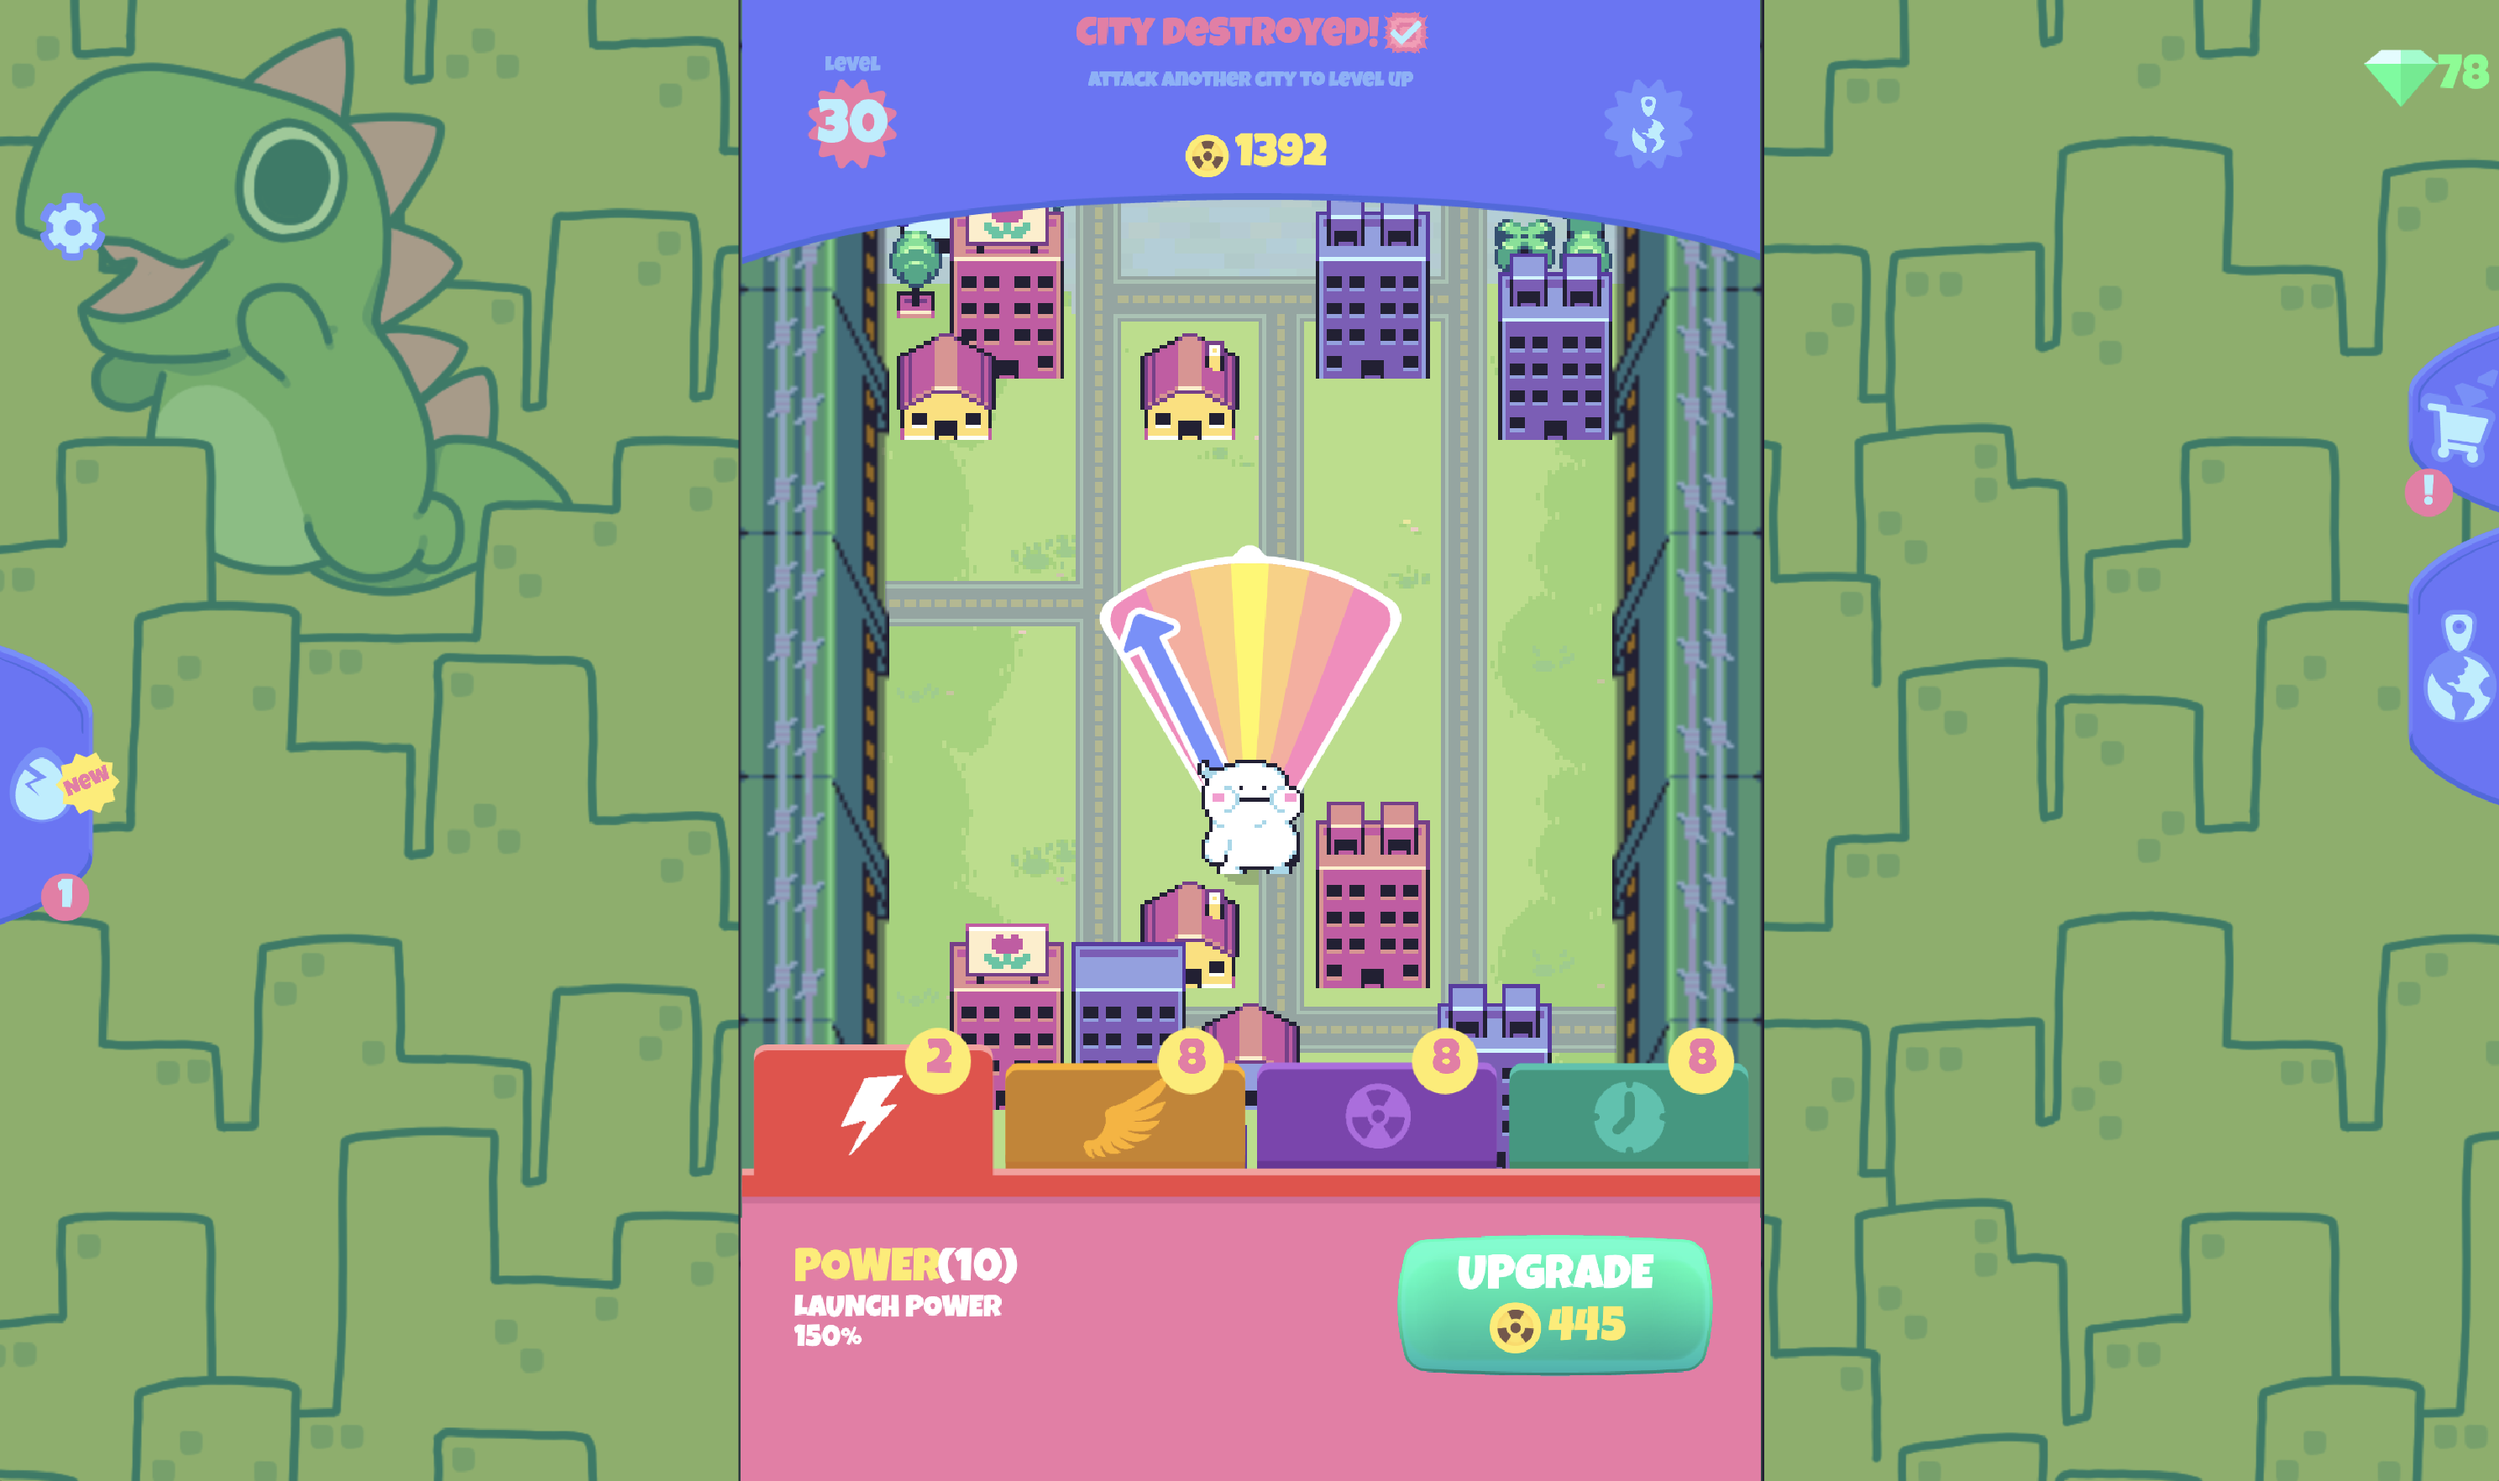
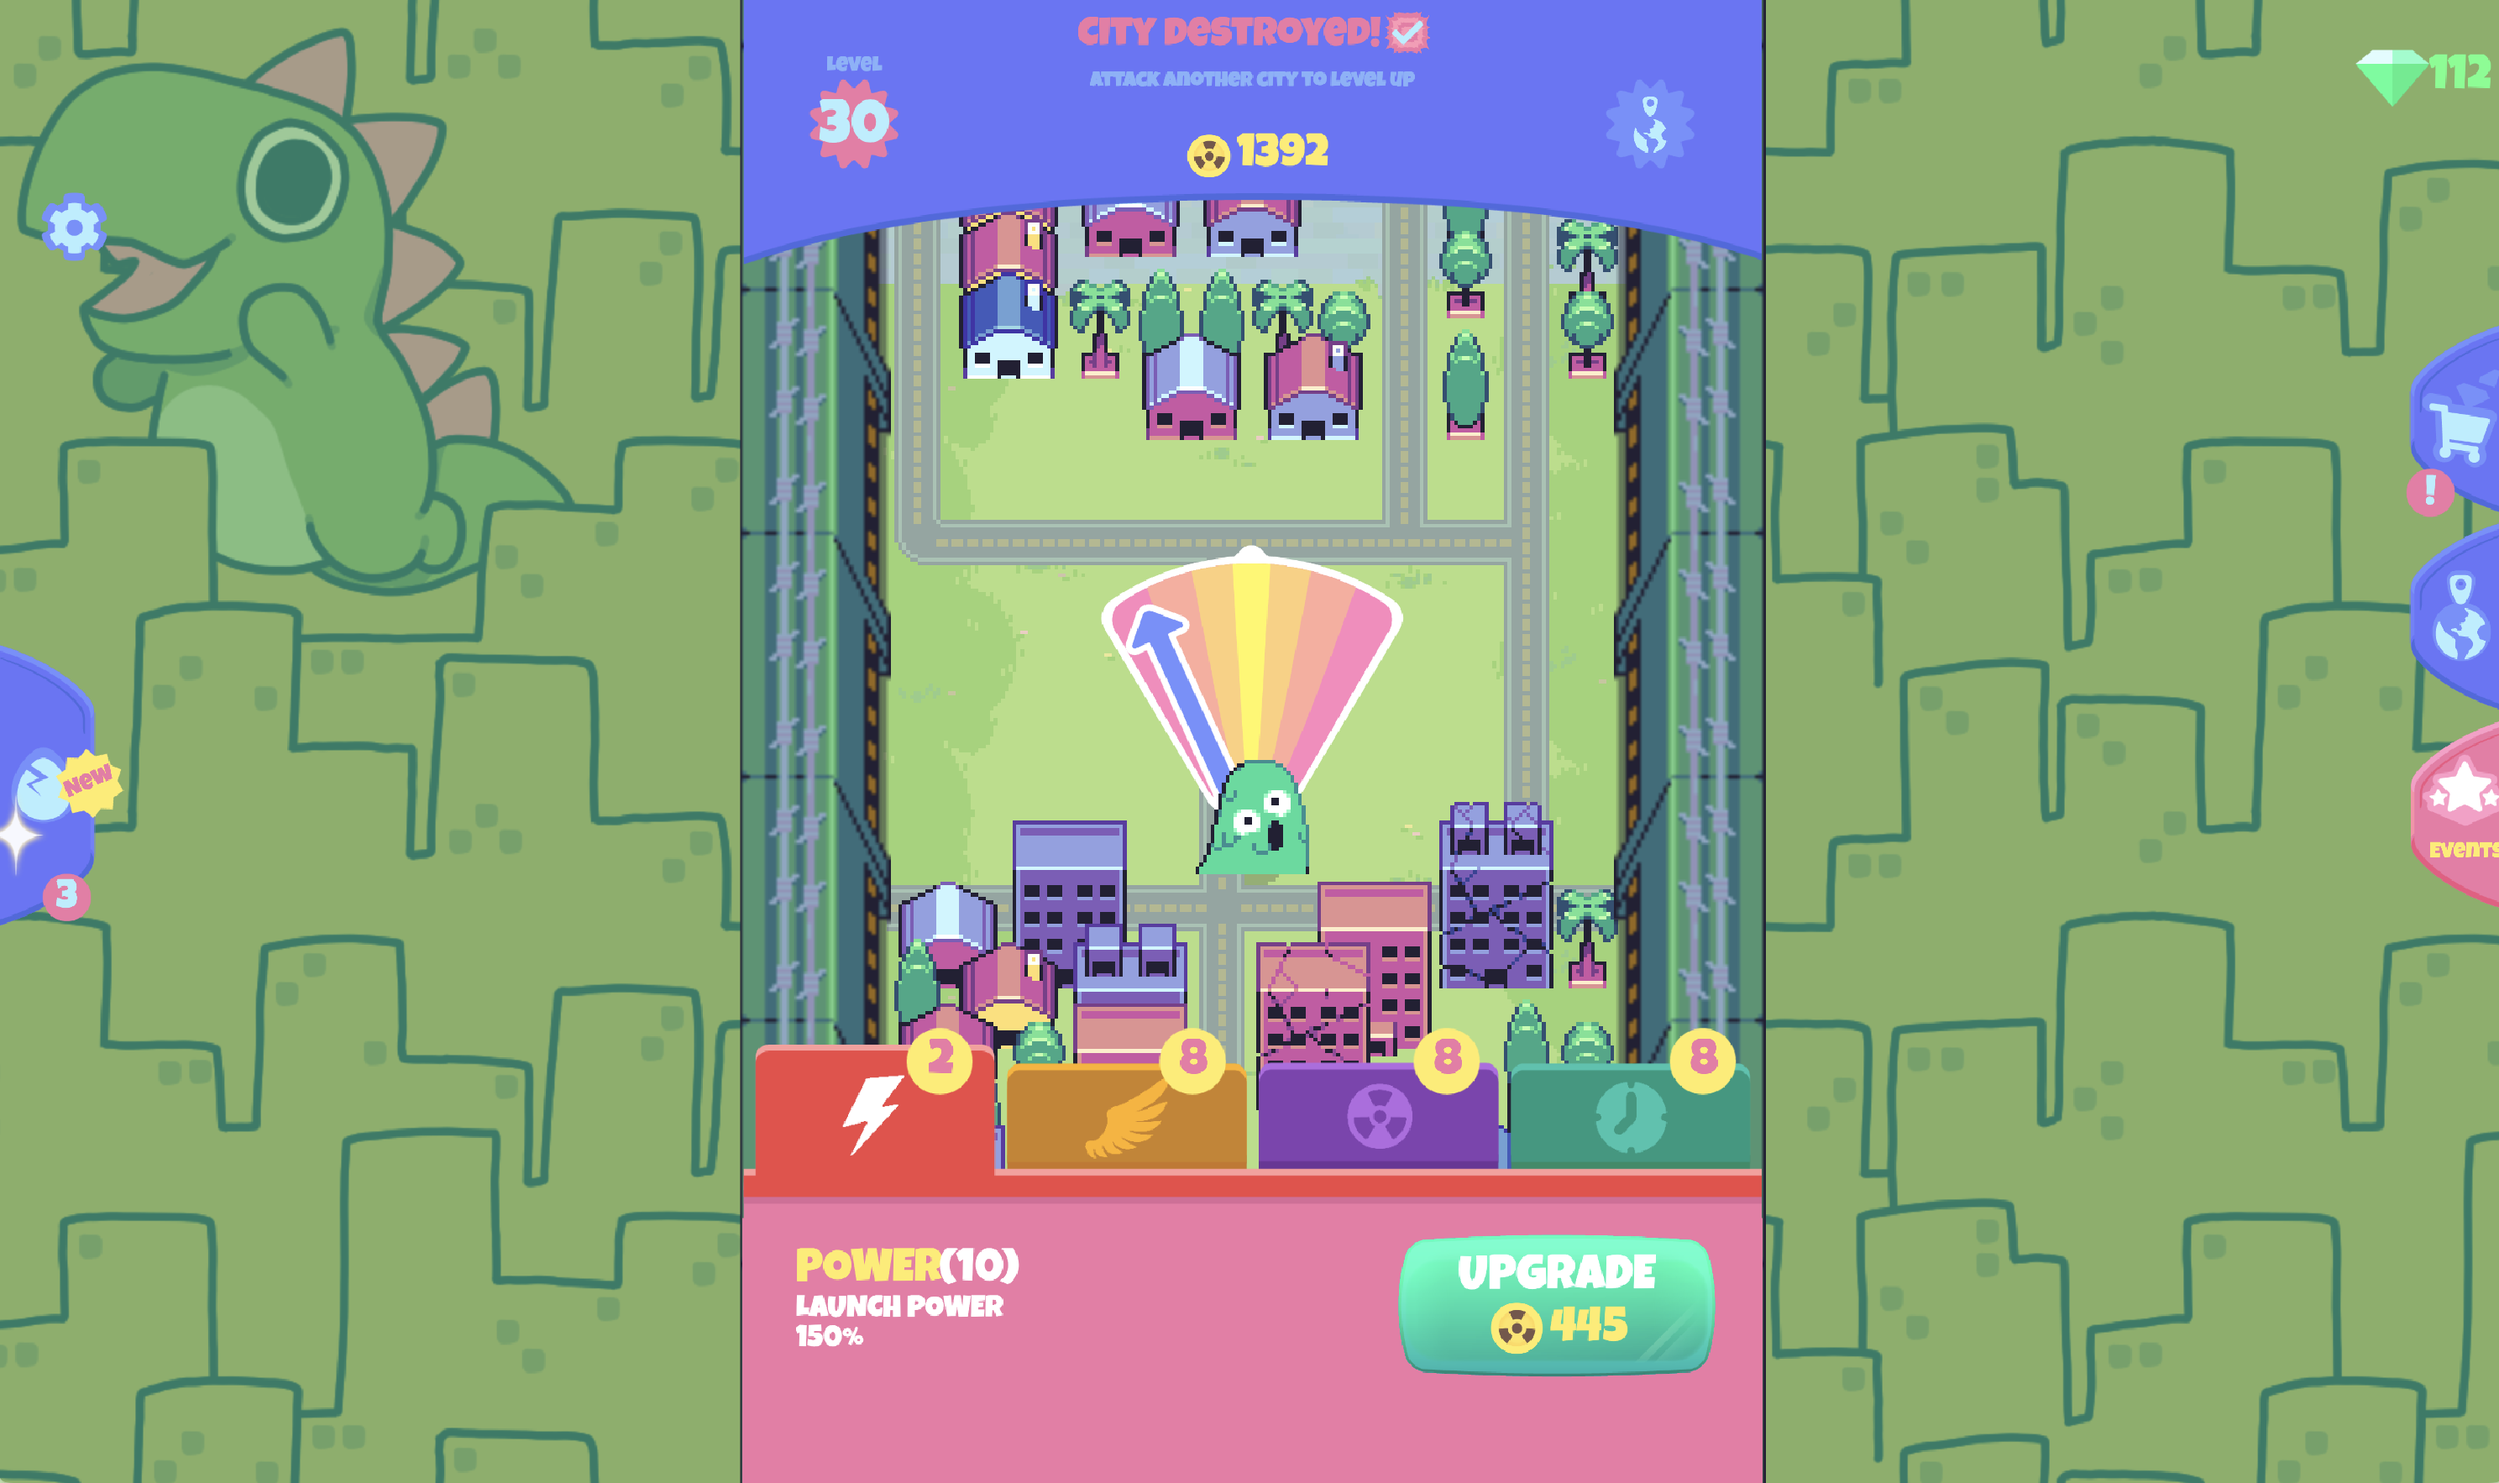
replaced images and smaller project covers

diff --git a/projects/kaijurush.html b/projects/kaijurush.html
@@ -109,7 +109,7 @@
             </div>
             <div class="project-info-detailed">
               <div class="project-description-main">
-                <p>Kaijurush is a 2D mobile game where you collect kaijus and smash cities. I worked on making the game support landscape mode and changing the monetization.
+                <p>Kaijurush is a 2D mobile game with over a million downloads on iOS and Android where you collect kaijus and smash cities. I worked on making the game support landscape mode and changing the monetization.
                   <br><br>
                   I added a shop where you can buy special kaijus with gems you can gain by playing the game or watching ads.
                 </p>
@@ -119,7 +119,7 @@
                   <source src="../images/kaijurush/trailer_landscape.mp4" type="video/mp4">
                   Your browser does not support the video tag.
                 </video>
-                <img src="../images/kaijurush/kaiju-sidetab.png" alt="Kaijurush Side Tab" class="gallery-item">
+                <img src="../images/kaijurush/kaiju_sidetab.png" alt="Kaijurush Side Tab" class="gallery-item">
                 <img src="../images/kaijurush/shop.png" alt="Kaijurush Shop" class="gallery-item">
                 <img src="../images/kaijurush/mainmenu.png" alt="Kaijurush Main Menu" class="gallery-item">
               </div>

diff --git a/projects/roadcrash.html b/projects/roadcrash.html
@@ -118,12 +118,12 @@
                 </p>
               </div>
               <div class="project-gallery">
+                <img src="../images/roadcrash/mainmenu.png" alt="Roadcrash Main Menu" class="gallery-item">
+                <img src="../images/roadcrash/shop.png" alt="Roadcrash Shop" class="gallery-item">
                 <video class="gallery-item" controls autoplay loop muted>
                   <source src="../images/roadcrash/landscape_trailer.mp4" type="video/mp4">
                   Your browser does not support the video tag.
                 </video>
-                <img src="../images/roadcrash/main-menu.png" alt="Roadcrash Main Menu" class="gallery-item">
-                <img src="../images/roadcrash/shop.png" alt="Roadcrash Shop" class="gallery-item">
               </div>
 
               <h3>Tech Stack</h3>

diff --git a/projects/panzerdogs.html b/projects/panzerdogs.html
@@ -109,7 +109,7 @@
             </div>
             <div class="project-info-detailed">
               <div class="project-description-main">
-                <p>Panzerdogs is a game created by Lucky Kat with 1 million downloads on iOS and Android where I currently work as the main Game Developer. I collaborate in a team with game designers and artists to create the best player experience possible.</p>
+                <p>Panzerdogs is a game created by Lucky Kat with a million downloads on iOS and Android where I currently work as the main Game Developer. I collaborate in a team with game designers and artists to create the best player experience possible.</p>
                 
                 <!-- <div class="project-store-links">
                   <a href="#" class="store-link">Apple Store</a>

diff --git a/main.css b/main.css
@@ -106,13 +106,11 @@ body {
   flex-shrink: 0;
   order: 1;
   text-align: center;
-  margin-left: -2rem;
 }
 
 .nav-container {
   padding: 2rem 1.5rem;
-  background: rgba(255, 255, 255, 0.9);
-  backdrop-filter: blur(10px);
+  background: #ffffff;
   border-radius: 20px;
   box-shadow: none;
   height: fit-content;
@@ -233,10 +231,10 @@ body {
 /* Projects Grid */
 .projects-grid {
   display: grid;
-  grid-template-columns: repeat(2, minmax(320px, 1fr));
+  grid-template-columns: repeat(2, minmax(280px, 1fr));
   gap: 0;
-  max-width: 1000px;
-  flex: 1;
+  max-width: 850px;
+  margin: 0 auto;
   order: 2;
 }
 

diff --git a/project-styles.css b/project-styles.css
@@ -233,15 +233,10 @@
 
 .gallery-item {
   width: 100%;
-<<<<<<< HEAD
   max-width: 100%;
   height: auto;
   max-height: 600px;
   object-fit: contain;
-=======
-  object-fit: cover;
-  /* box-shadow: 0 4px 12px rgba(0, 0, 0, 0.1); */
->>>>>>> 85c60cbc0b495b32ed5b6d16c582f6d3d1f4ce52
   transition: transform 0.3s ease, box-shadow 0.3s ease;
 }
 
